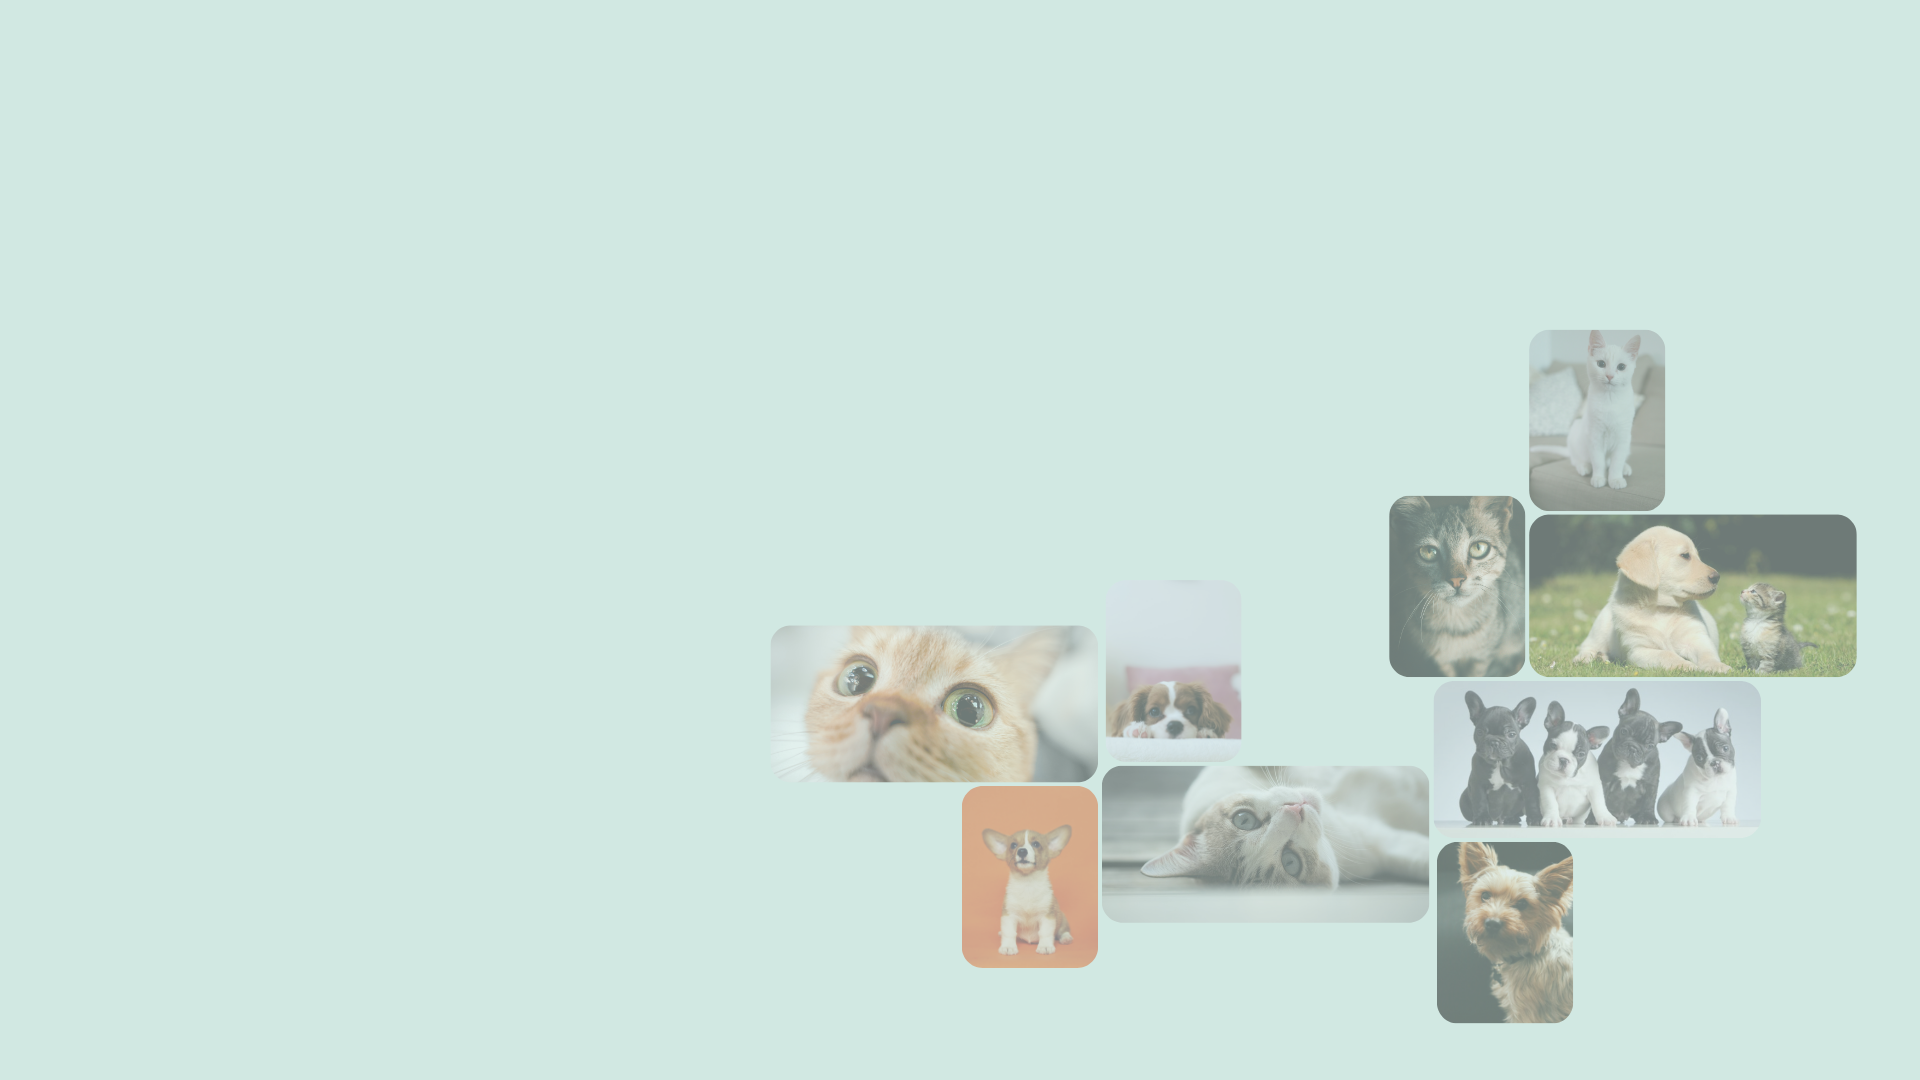
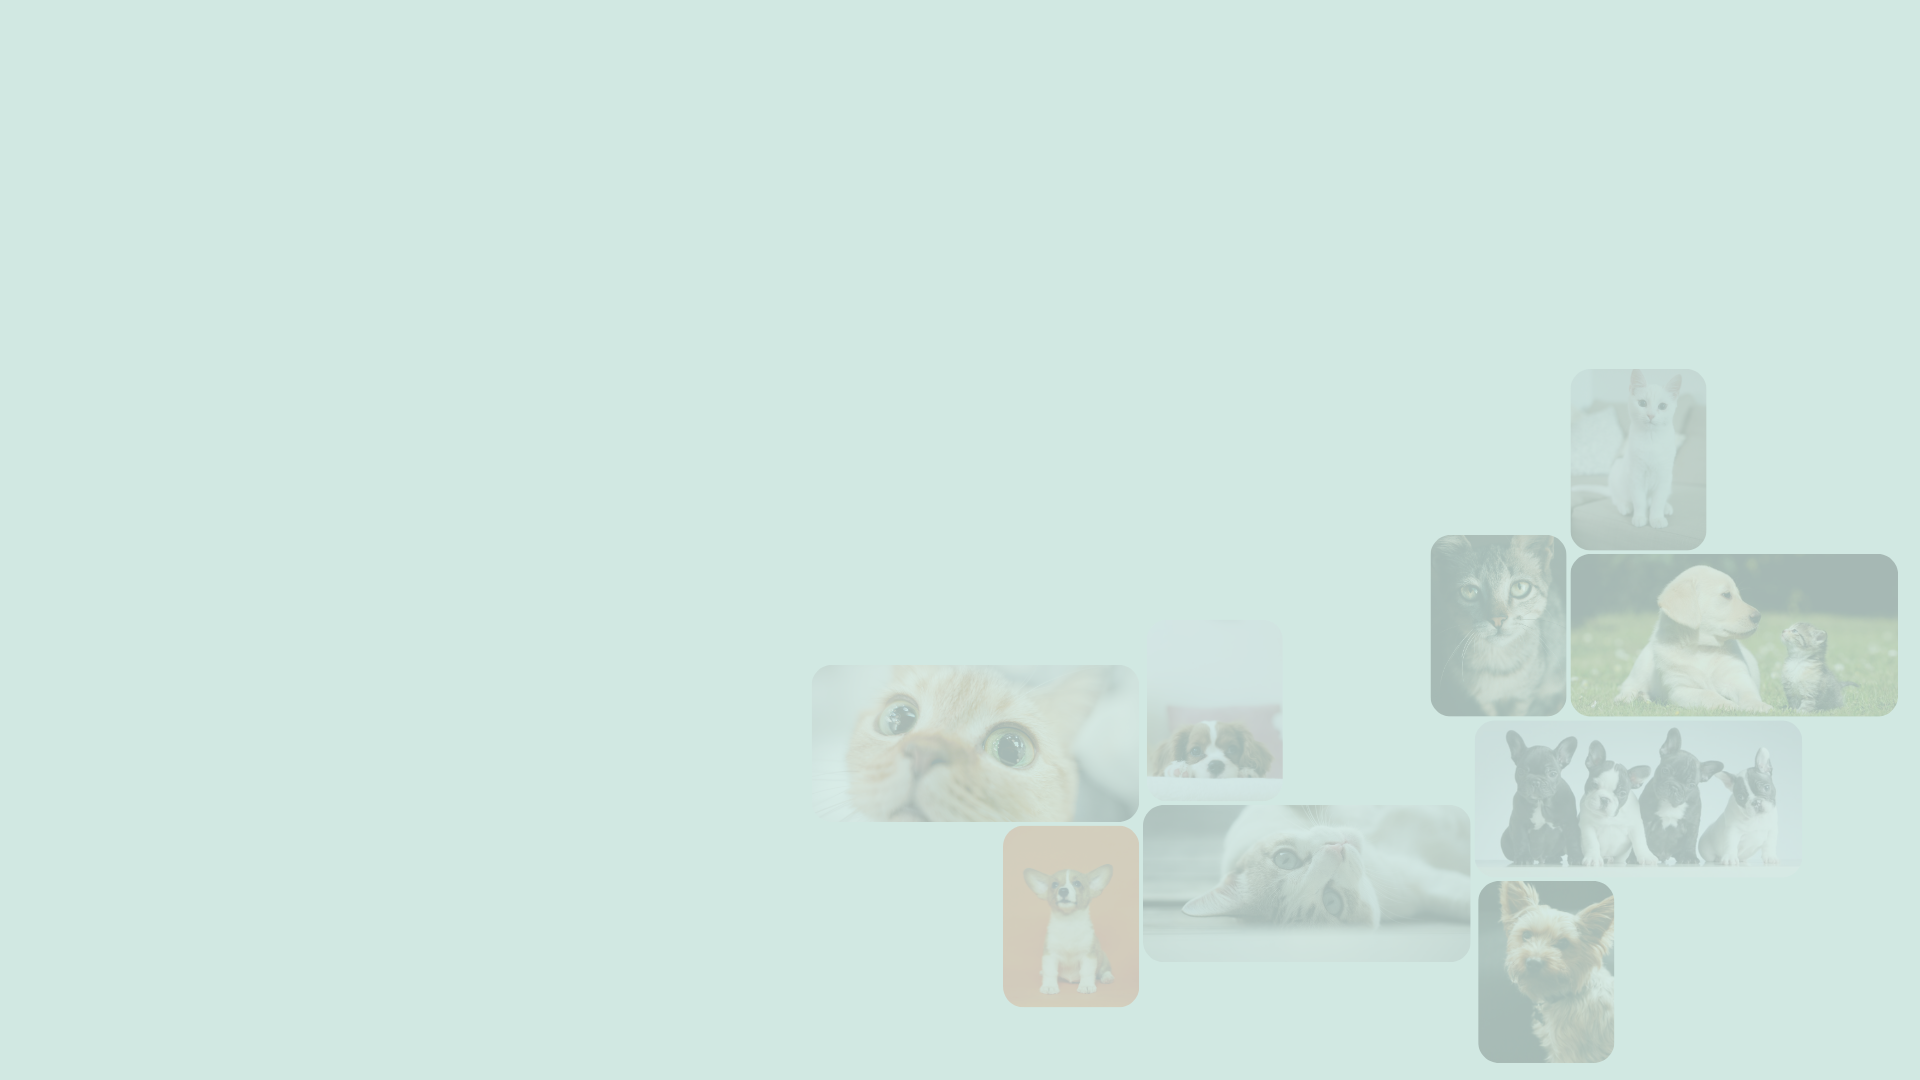
changed BG on landiing page

Changed region(s): [[0.4062, 0.3056, 1.0, 1.0]]

diff --git a/public/css/styles.css b/public/css/styles.css
@@ -16,7 +16,7 @@ body {
     font-family: 'Poppins', sans-serif;
     background: #D1E8E2;
     background-image: url('/images/landingpage.png');
-    background-size: cover;
+    background-size: contain;
     background-repeat: no-repeat;
 }
 
